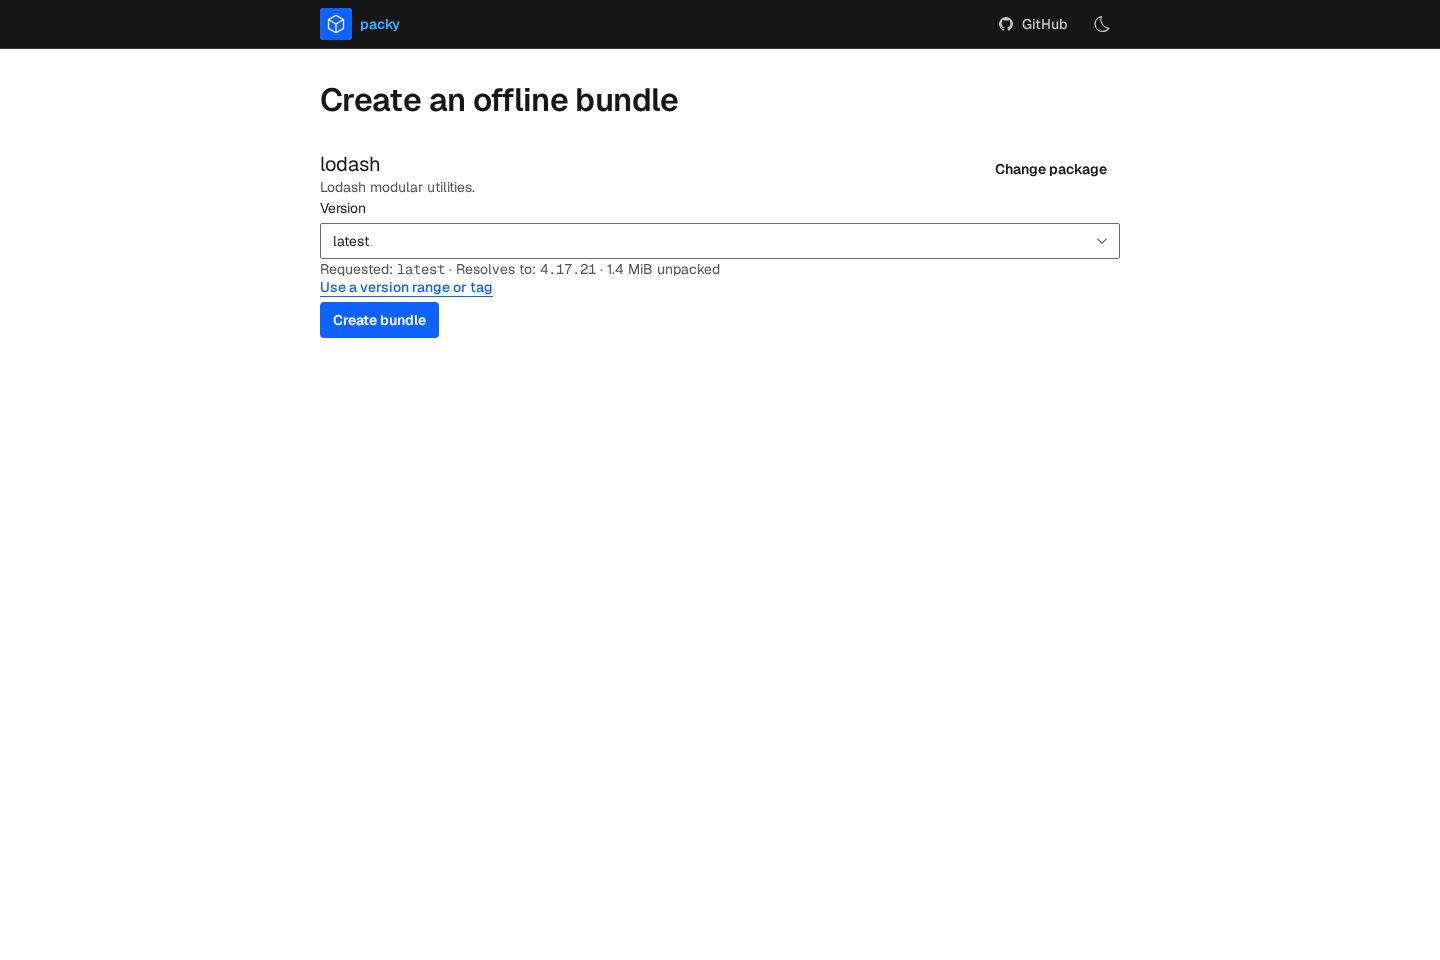
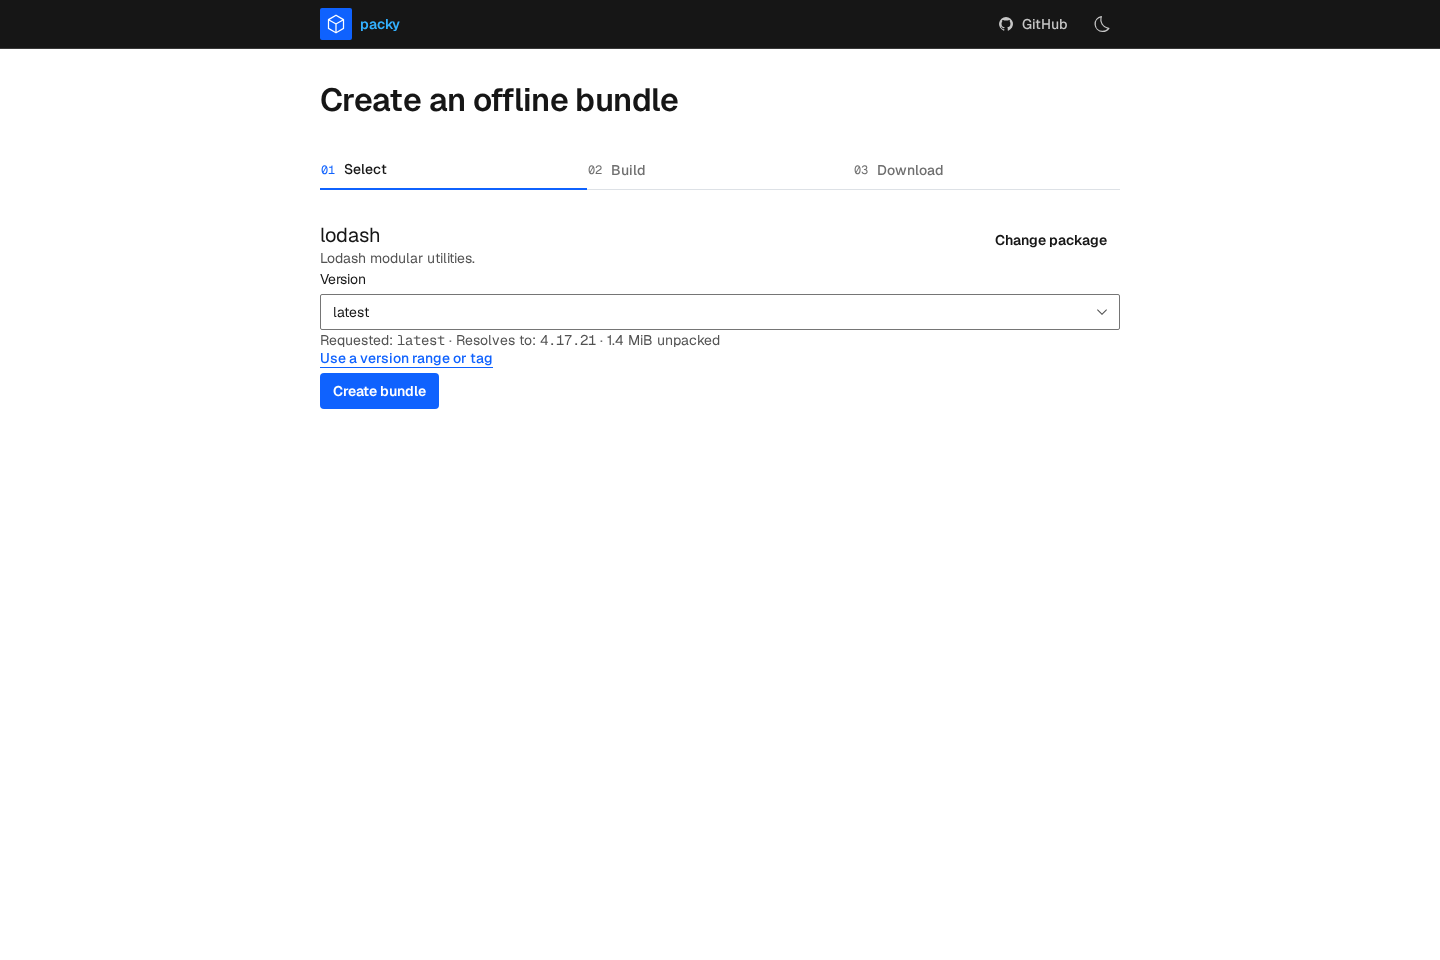
feat: restore the workflow stepper and recommended packages
Add a compact Select/Build/Download stepper that tracks idle, running, success, and failure states. Re-add the recommended package shortcuts below the package field and remove the one-package subline.

diff --git a/src/components/workflow-stepper.svelte b/src/components/workflow-stepper.svelte
@@ -1,0 +1,150 @@
+<script lang="ts">
+	import Checkmark from "~icons/carbon/checkmark";
+	import Close from "~icons/carbon/close";
+
+	type Phase = "idle" | "running" | "done" | "error";
+	type Status = "current" | "done" | "failed" | "pending";
+
+	type Props = {
+		phase: Phase;
+	};
+
+	let { phase }: Props = $props();
+
+	const steps = ["Select", "Build", "Download"] as const;
+
+	function statusFor(index: number): Status {
+		if (phase === "idle") {
+			return index === 0 ? "current" : "pending";
+		}
+
+		if (phase === "error") {
+			if (index === 0) return "done";
+			if (index === 1) return "failed";
+			return "pending";
+		}
+
+		if (phase === "running") {
+			if (index === 0) return "done";
+			if (index === 1) return "current";
+			return "pending";
+		}
+
+		return index === 2 ? "current" : "done";
+	}
+
+	function statusText(status: Status): string {
+		if (status === "current") return "Current step";
+		if (status === "done") return "Completed";
+		if (status === "failed") return "Failed";
+		return "Not started";
+	}
+</script>
+
+<nav class="stepper" aria-label="Workflow">
+	<ol class="stepper__list">
+		{#each steps as step, index}
+			{@const status = statusFor(index)}
+			<li
+				class="stepper__step"
+				data-status={status}
+				aria-current={status === "current" ? "step" : undefined}
+			>
+				<span class="stepper__marker" aria-hidden="true">
+					{#if status === "done"}
+						<Checkmark />
+					{:else if status === "failed"}
+						<Close />
+					{:else}
+						<span class="stepper__number">
+							{String(index + 1).padStart(2, "0")}
+						</span>
+					{/if}
+				</span>
+				<span class="stepper__label">{step}</span>
+				<span class="sr-only">{statusText(status)}</span>
+			</li>
+		{/each}
+	</ol>
+</nav>
+
+<style>
+	.stepper__list {
+		display: grid;
+		grid-template-columns: repeat(3, minmax(0, 1fr));
+		margin: 0;
+		padding: 0;
+		list-style: none;
+	}
+
+	.stepper__step {
+		display: flex;
+		align-items: center;
+		gap: var(--space-2);
+		min-width: 0;
+		padding: var(--space-2) 0;
+		border-bottom: var(--border-width) solid var(--color-border-subtle);
+		color: var(--color-text-muted);
+	}
+
+	.stepper__step[data-status="current"] {
+		border-bottom: var(--border-width-emphasis) solid var(--color-primary);
+		color: var(--color-text-primary);
+	}
+
+	.stepper__step[data-status="failed"] {
+		border-bottom: var(--border-width-emphasis) solid var(--color-error);
+		color: var(--color-error);
+	}
+
+	.stepper__marker {
+		display: inline-flex;
+		align-items: center;
+		justify-content: center;
+		width: var(--icon-sm);
+		height: var(--icon-sm);
+		flex-shrink: 0;
+	}
+
+	.stepper__marker :global(svg) {
+		width: var(--icon-sm);
+		height: var(--icon-sm);
+	}
+
+	.stepper__step[data-status="done"] .stepper__marker {
+		color: var(--color-success);
+	}
+
+	.stepper__step[data-status="failed"] .stepper__marker {
+		color: var(--color-error);
+	}
+
+	.stepper__number {
+		font-family: var(--font-mono);
+		font-size: var(--font-size-caption);
+		font-variant-numeric: tabular-nums;
+		line-height: var(--font-leading-none);
+	}
+
+	.stepper__step[data-status="current"] .stepper__number {
+		color: var(--color-primary);
+	}
+
+	.stepper__label {
+		font-size: var(--font-size-body);
+		font-weight: var(--font-weight-medium);
+		line-height: var(--font-leading-body);
+	}
+
+	.stepper__step[data-status="done"] .stepper__label {
+		color: var(--color-text-secondary);
+	}
+
+	.stepper__step[data-status="current"] .stepper__label {
+		color: var(--color-text-primary);
+	}
+
+	.stepper__step[data-status="pending"] .stepper__label {
+		color: var(--color-text-muted);
+	}
+</style>

diff --git a/src/components/package-picker.svelte b/src/components/package-picker.svelte
@@ -30,6 +30,14 @@
 		onStart,
 	}: Props = $props();
 
+	const POPULAR_PACKAGES = [
+		"react",
+		"vue",
+		"vite",
+		"typescript",
+		"zod",
+		"lodash",
+	] as const;
 	const MAX_VISIBLE_VERSIONS = 300;
 	const SEARCH_DEBOUNCE_MS = 300;
 	const SEARCH_MIN_LENGTH = 3;
@@ -384,6 +392,16 @@
 		void loadPackage(value);
 	}
 
+	function selectPopular(name: string) {
+		if (disabled) {
+			return;
+		}
+
+		pendingPackage = name;
+		searchTerm = "";
+		void loadPackage(name);
+	}
+
 
 	async function handleVersionSelect(value: string) {
 		if (!value || disabled) {
@@ -700,9 +718,23 @@
 					</Inline>
 				</Stack>
 			{/if}
-			<Text variant="body-sm" tone="secondary">
-				One package per archive.
-			</Text>
+			{#if searchTerm.trim().length === 0}
+				<div class="recommended">
+					<p class="recommended__label">Recommended</p>
+					<div class="recommended__list">
+						{#each POPULAR_PACKAGES as name}
+							<button
+								class="recommended__item"
+								type="button"
+								onclick={() => selectPopular(name)}
+								disabled={disabled}
+							>
+								{name}
+							</button>
+						{/each}
+					</div>
+				</div>
+			{/if}
 		</Stack>
 	{/if}
 </Stack>
@@ -732,6 +764,54 @@
 
 	.version-summary__sep {
 		color: var(--color-text-muted);
+	}
+
+	.recommended {
+		display: flex;
+		flex-direction: column;
+		gap: var(--space-2);
+	}
+
+	.recommended__label {
+		margin: 0;
+		color: var(--color-text-secondary);
+		font-size: var(--font-size-body);
+		line-height: var(--font-leading-body);
+	}
+
+	.recommended__list {
+		display: flex;
+		flex-wrap: wrap;
+		gap: var(--space-3);
+	}
+
+	.recommended__item {
+		padding: 0;
+		border: 0;
+		background: none;
+		color: var(--color-primary);
+		font-family: var(--font-mono);
+		font-size: var(--font-size-body);
+		line-height: var(--font-leading-body);
+		cursor: pointer;
+	}
+
+	@media (hover: hover) and (pointer: fine) {
+		.recommended__item:hover {
+			color: var(--color-primary-hover);
+			text-decoration: underline;
+			text-underline-offset: var(--space-1);
+		}
+	}
+
+	.recommended__item:focus-visible {
+		outline: var(--border-width-emphasis) solid var(--color-primary);
+		outline-offset: var(--space-1);
+	}
+
+	.recommended__item:disabled {
+		color: var(--color-text-disabled);
+		cursor: not-allowed;
 	}
 
 	.action-row {

diff --git a/tests/workflow.spec.ts b/tests/workflow.spec.ts
@@ -87,7 +87,13 @@ test("mobile layout stays focused", async ({ page }) => {
 	await expect(
 		page.getByRole("heading", { name: "Create an offline bundle" }),
 	).toBeVisible();
-	await expect(page.getByText("One package per archive.")).toBeVisible();
+	await expect(
+		page
+			.getByRole("navigation", { name: "Workflow" })
+			.locator('[aria-current="step"]'),
+	).toContainText("Select");
+	await expect(page.getByText("Recommended")).toBeVisible();
+	await expect(page.getByRole("button", { name: "react" })).toBeVisible();
 	expect(
 		await page.evaluate(
 			() => document.documentElement.scrollWidth <= innerWidth,
@@ -214,6 +220,11 @@ test("build, download, copy and reset", async ({ page, context }) => {
 	await expect(
 		page.getByRole("heading", { name: "Bundle ready" }),
 	).toBeVisible();
+	await expect(
+		page
+			.getByRole("navigation", { name: "Workflow" })
+			.locator('[aria-current="step"]'),
+	).toContainText("Download");
 	await expect(page.locator(".workflow-focus")).toBeFocused();
 	expect(
 		await page.evaluate(
@@ -273,6 +284,11 @@ test("failed build preserves configuration and supports retry", async ({
 			"This version is not available on npm. Choose another version.",
 		),
 	).toBeVisible();
+	await expect(
+		page
+			.getByRole("navigation", { name: "Workflow" })
+			.locator('[data-status="failed"]'),
+	).toContainText("Build");
 	await expect(page.locator(".workflow-focus")).toBeFocused();
 	await expect(page.getByText("Not run").first()).toBeVisible();
 	await page.getByRole("button", { name: "Edit package or version" }).click();

diff --git a/src/App.svelte b/src/App.svelte
@@ -5,6 +5,7 @@
 	import PackagePicker from "~/components/package-picker.svelte";
 	import ResultView from "~/components/result-view.svelte";
 	import RunView from "~/components/run-view.svelte";
+	import WorkflowStepper from "~/components/workflow-stepper.svelte";
 	import Alert from "~/components/ui/alert.svelte";
 	import PageHeader from "~/components/ui/page-header.svelte";
 	import { isRunError } from "~/lib/core/errors";
@@ -210,6 +211,8 @@
 	<main id="main" tabindex="-1" class="app-main">
 		<div class="page">
 			<PageHeader title={pageTitle} />
+
+			<WorkflowStepper {phase} />
 
 			<div class="app-state">
 				{#if !crossOriginIsolated}

diff --git a/src/app.css b/src/app.css
@@ -101,6 +101,18 @@ a {
 	font-variant-numeric: tabular-nums;
 }
 
+.sr-only {
+	position: absolute;
+	width: 1px;
+	height: 1px;
+	padding: 0;
+	margin: -1px;
+	overflow: hidden;
+	clip: rect(0, 0, 0, 0);
+	white-space: nowrap;
+	border: 0;
+}
+
 .field {
 	display: flex;
 	flex-direction: column;
